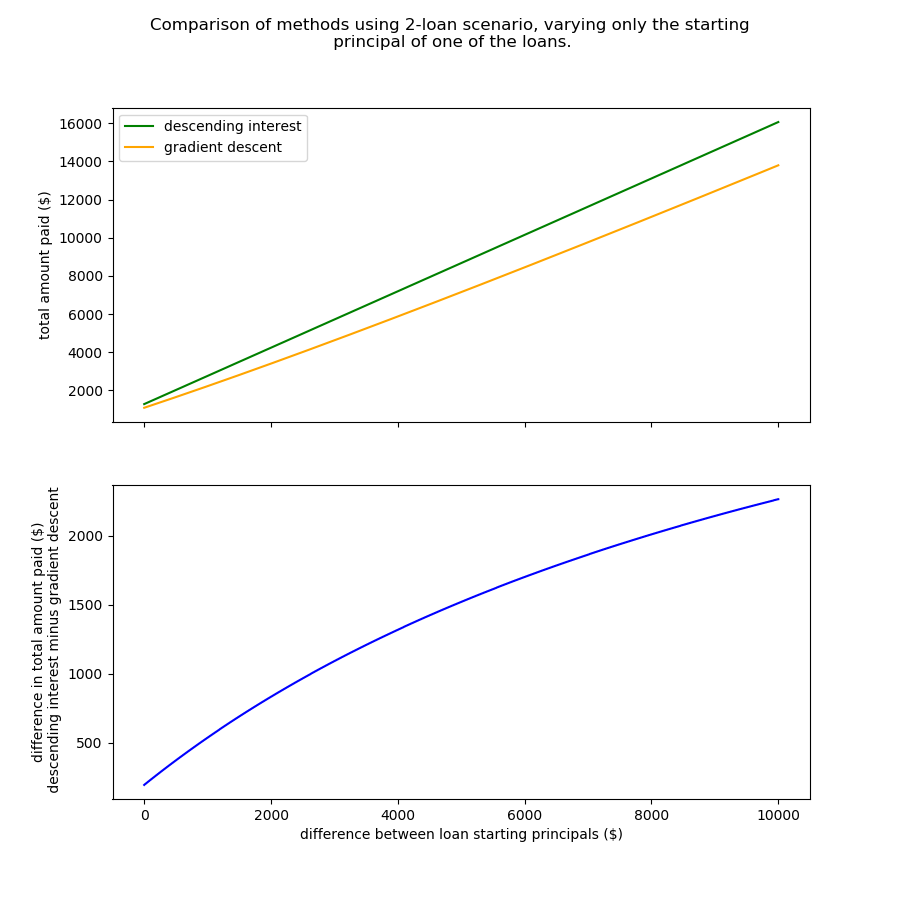
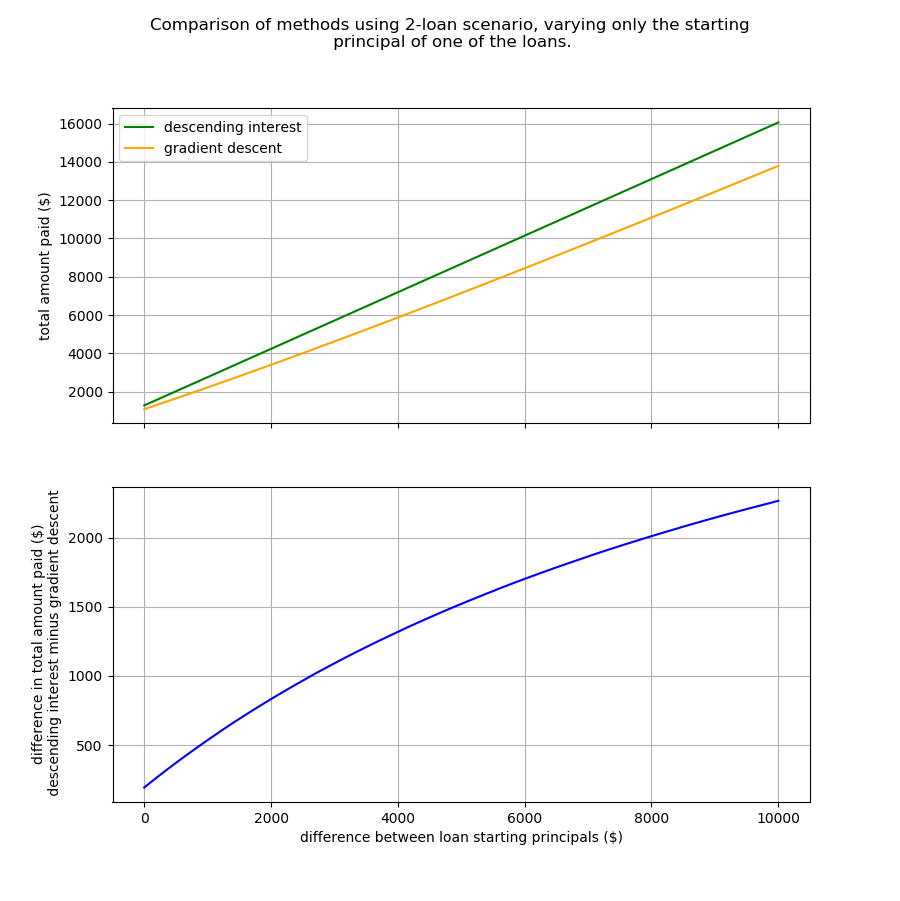
analyze_results code for results of loan_function_test_1 added [5/30/20]

diff --git a/loan_function_test_1_in4/analyze_results.py b/loan_function_test_1_in4/analyze_results.py
@@ -1,0 +1,66 @@
+""" Code to analyze results of loan_function_test_1_in4 """
+
+import numpy as np
+from matplotlib import pyplot as plt
+import pdb
+
+# The total number of simulations run
+nSims = 10271580
+
+
+losses_files = ['losses_1of4.txt', 'losses_2of4.txt', 'losses_3of4.txt', 'losses_4of4.txt']
+wins_files = ['win_1of4.txt', 'win_2of4.txt', 'win_3of4.txt', 'win_4of4.txt']
+
+
+loss_margin = []
+for losses_file in losses_files:
+    line = True
+    with open(losses_file,'r') as f_obj:
+        while(line):
+            line = f_obj.readline()
+            split_line = line.split(',')
+            try:
+                loss_margin.append(float(split_line[3]))
+            except:
+                # This isn't a CSV line, so just advance to next iteration
+                pass
+    print('Done with file:\n'+losses_file)
+loss_margin = np.asarray(loss_margin)
+
+win_margin = []
+for wins_file in wins_files:
+    line = True
+    with open(wins_file,'r') as f_obj:
+        while(line):
+            line = f_obj.readline()
+            split_line = line.split(',')
+            try:
+                win_margin.append(float(split_line[3]))
+            except:
+                pass
+    print('Done with file:\n'+wins_file)    
+win_margin = np.asarray(win_margin)
+
+if (loss_margin.shape[0] + win_margin.shape[0]) != nSims:
+    print('The number of records in the files and the number of simulations')
+    print('does not match.')
+
+percent_wins = float(win_margin.shape[0])/float(nSims)
+percent_losses = float(loss_margin.shape[0])/float(nSims)
+print('wins: ',percent_wins)
+print('losses: ',percent_losses)
+print('mean win', win_margin.mean())
+print('mean loss', loss_margin.mean())
+print('max win', win_margin.min())
+print('max loss', loss_margin.max())
+print('min win', win_margin.max())
+print('min loss', loss_margin.min())
+fig, ax = plt.subplots(1,2,figsize=(8,8))
+ax[0].hist(win_margin,bins='auto')
+ax[0].set_title('win margins')
+ax[1].hist(loss_margin,bins='auto')
+ax[1].set_title('loss margins')
+plt.show()
+
+pdb.set_trace()
+

diff --git a/method_compare_1.py b/method_compare_1.py
@@ -62,12 +62,14 @@ Tdi = np.array(Tdi)
 fig, ax = plt.subplots(2,1,figsize=(9,9),sharex=True)
 ax[0].plot(dL0,Tdi,color='green',label='descending interest')
 ax[0].plot(dL0,Tgd,color='orange',label='gradient descent')
+ax[0].grid()
 ax[0].legend()
 #ax[0].set_xlabel('difference between loan principals ($)')
 ax[0].set_ylabel('total amount paid ($)')
 ax[1].plot(dL0,(Tdi-Tgd),color='blue')
 ax[1].set_xlabel('difference between loan starting principals ($)')
 ax[1].set_ylabel('difference in total amount paid ($)\n descending interest minus gradient descent')
+ax[1].grid()
 fig.suptitle('Comparison of methods using 2-loan scenario, varying only the starting\n principal of one of the loans.')
 plt.show()
 

diff --git a/README.md b/README.md
@@ -73,3 +73,6 @@ method, and in cases where it does not, it doesn't "lose" by much.
 [1] https://www.khanacademy.org/college-careers-more/personal-finance/pf-interest-and-debt/debt-repayment/v/high-rate-vs-snowball-method
 
 ## Notes:
+
+{30 May 2020}
+Work on/finesse output of analyze_results.py
